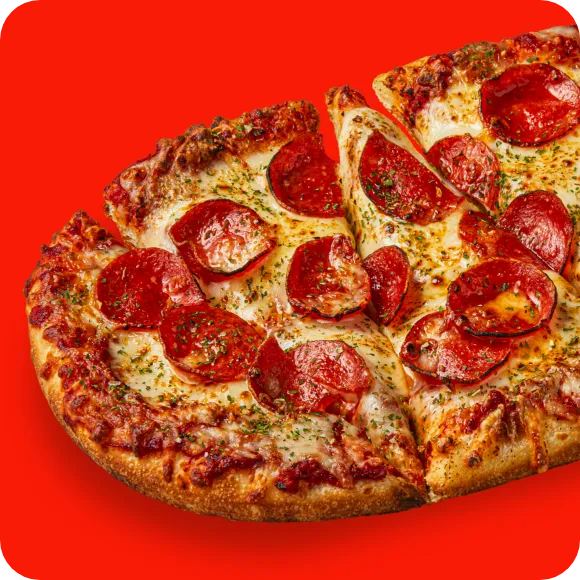
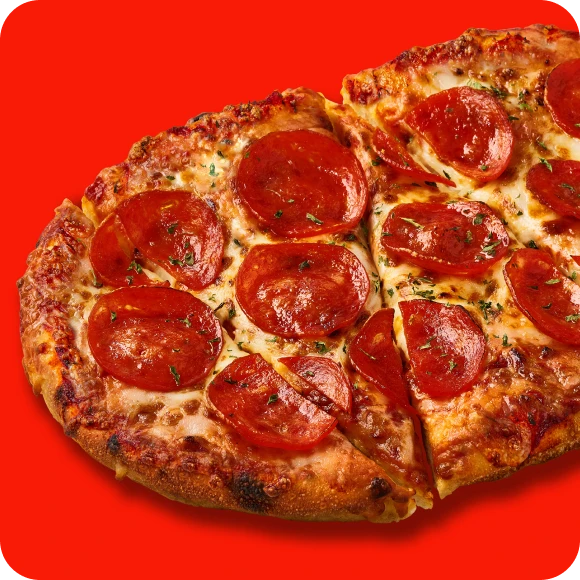
오리지널

diff --git a/pages/menu/[[...index]].tsx b/pages/menu/[[...index]].tsx
@@ -214,7 +214,7 @@ function Menu({ seo }: { seo: object }) {
                   <img
                     src={
                       categoryNav === -1
-                        ? `https://dev-gopizza-homepage.s3.ap-northeast-2.amazonaws.com/ui/images/menu/pizza/img_item${i + 1}x2.webp`
+                        ? `https://dev-gopizza-homepage.s3.ap-northeast-2.amazonaws.com/ui/images/menu/pizza/img_item${i + 1}x2.webp?v=2`
                         : `https://dev-gopizza-homepage.s3.ap-northeast-2.amazonaws.com/ui/images/menu${router.asPath.split("/menu")[1]}/img_item${i + 1}x2.webp?v=3`
                     }
                     alt="메뉴배경이미지"

diff --git a/pages/menu/detail/[idx].tsx b/pages/menu/detail/[idx].tsx
@@ -130,7 +130,7 @@ function DetailView({ seo }: any) {
             <Info>
               <div {...handlers} className={`thumb ${currentMenu?.badge === "best" ? "badge best" : currentMenu?.badge === "new" ? "badge new" : ""}`}>
                 <img
-                  src={`https://dev-gopizza-homepage.s3.ap-northeast-2.amazonaws.com/ui/images/menu/detail/${currentMenu?.category}/${idx}x2.webp?v=2`}
+                  src={`https://dev-gopizza-homepage.s3.ap-northeast-2.amazonaws.com/ui/images/menu/detail/${currentMenu?.category}/${idx}x2.webp?v=3`}
                   alt={currentMenu?.name}
                 />
               </div>
